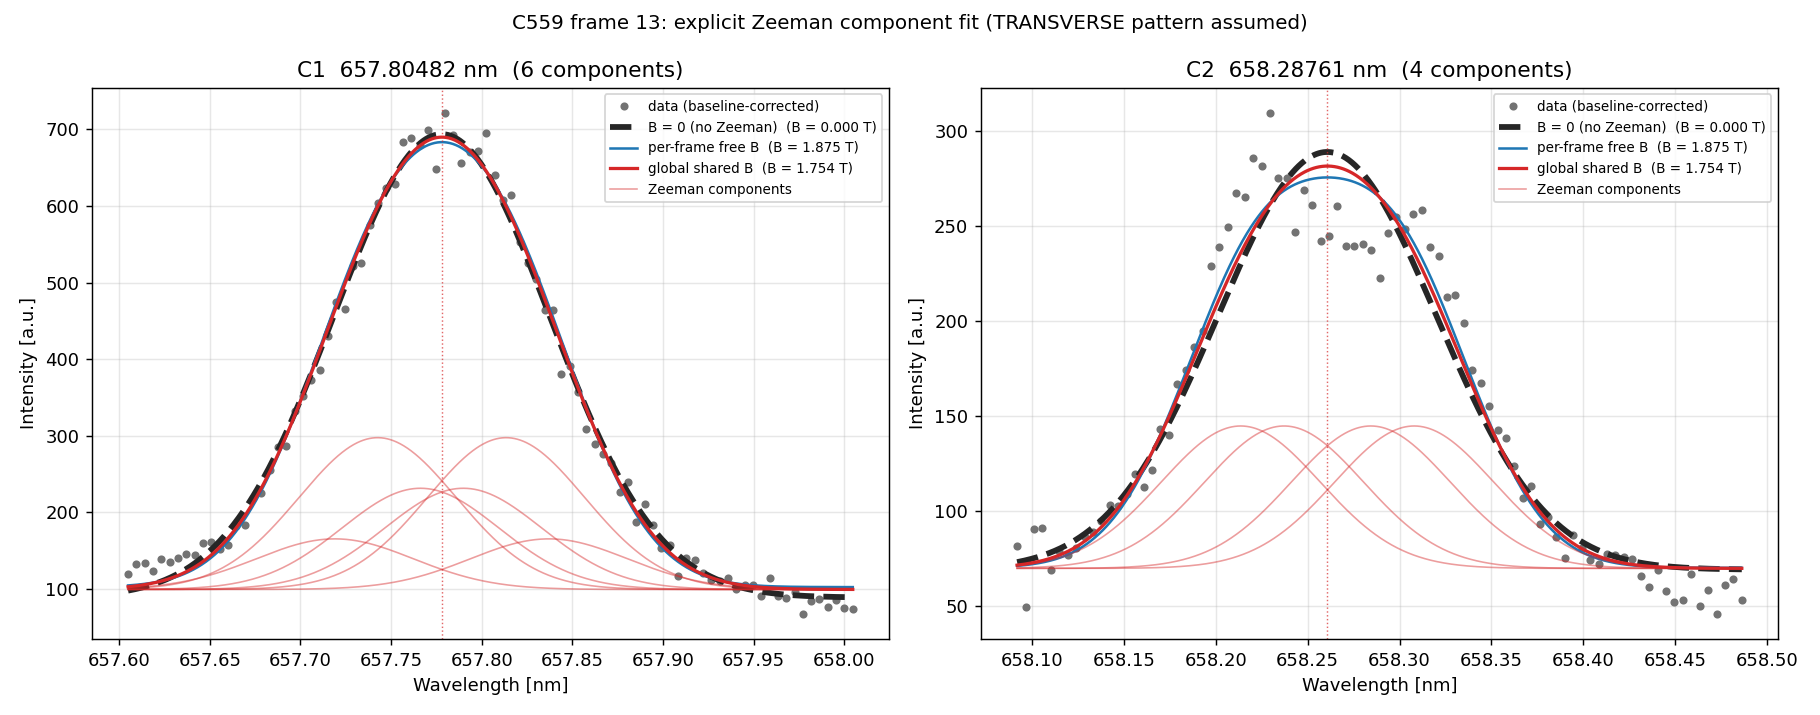
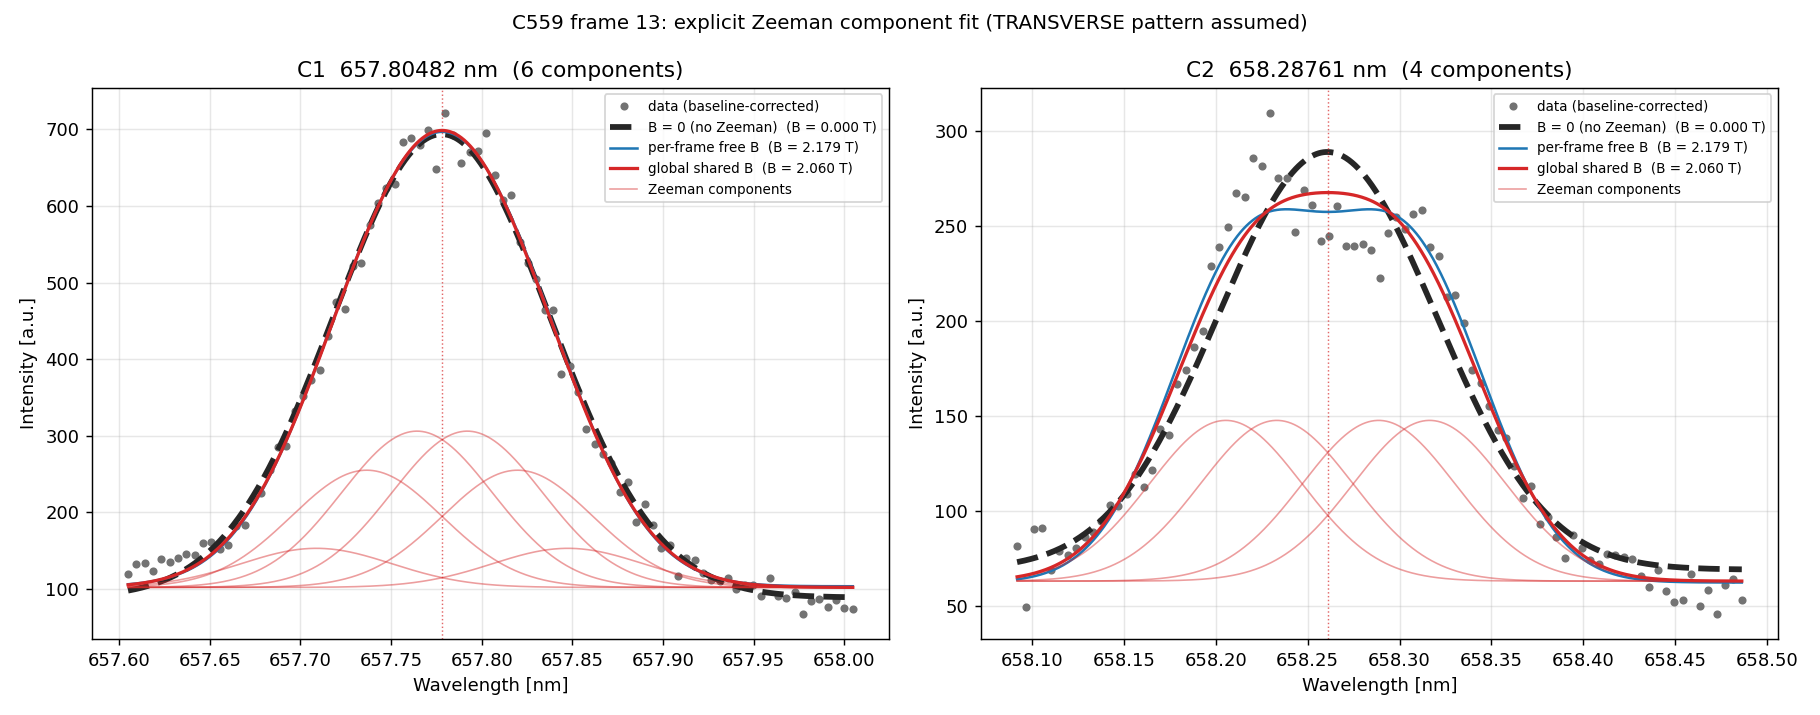
report submited

diff --git a/main/HaC_Zeeman.py b/main/HaC_Zeeman.py
@@ -442,12 +442,17 @@ def extract_nt_from_frame(exp_i, frame_i, do_plot=False, exp_dir_name=None):
 # Wavelength shift per unit of reduced shift per tesla, in ANGSTROM.
 ZEEMAN_ANGSTROM_PER_UNIT_PER_TESLA = 0.2020
 
+# Strengths are the intensities seen PERPENDICULAR to B: the squared Clebsch-
+# Gordan coefficient of each component times 2 for pi (Delta m = 0) and times 1
+# for sigma (Delta m = +/-1), because a pi dipole radiates twice as much as a
+# sigma one at 90 degrees. C1: CG^2 = 1:3:2:2:3:1 (sigma:sigma:pi:pi:sigma:sigma)
+# -> 1:3:4:4:3:1. C2: CG^2 = 2:1:1:2 -> 1:1:1:1.
 ZEEMAN_PATTERN = {
     # C1: 657.80482 nm, 2P3/2 - 2S1/2, six components
     "C1": {
         "lam_nm": lambda_C1,
         "shifts": np.array([-5.0 / 3, -1.0, -1.0 / 3, 1.0 / 3, 1.0, 5.0 / 3]),
-        "strengths": np.array([1.0, 3.0, 2.0, 2.0, 3.0, 1.0]),
+        "strengths": np.array([1.0, 3.0, 4.0, 4.0, 3.0, 1.0]),
     },
     # C2: 658.28761 nm, 2P1/2 - 2S1/2, four components
     "C2": {
@@ -932,7 +937,7 @@ def check_B0_reduction(frames):
                      if ok else "FAIL: the B=0 model is NOT the existing model."))
     print("  (The residual difference is the difference of the same two models")
     print("   against the same data, so it equals the model difference exactly.")
-    print("   The floor is the weight sum 1/10+3/10+2/10+2/10+3/10+1/10, which")
+    print("   The floor is the weight sum 1/16+3/16+4/16+4/16+3/16+1/16, which")
     print("   is 1 only to round-off in binary floating point.)")
     return ok
 

diff --git a/main/plot_spec.py b/main/plot_spec.py
@@ -1,3 +1,4 @@
+import os
 import HaC_main as HaC
 import numpy as np
 import matplotlib.pyplot as plt
@@ -65,4 +66,5 @@ if __name__ == "__main__":
         
     plt.tight_layout()
     plt.subplots_adjust(top=0.95) # Make slightly more room for the main title
+    plt.savefig(os.path.join(HaC.PLOT_DIR, f"C{exp_i}_all_frames.png"), dpi=200)
     plt.show()
